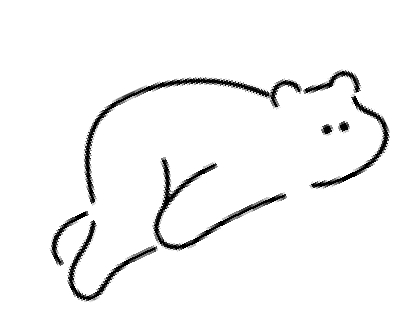
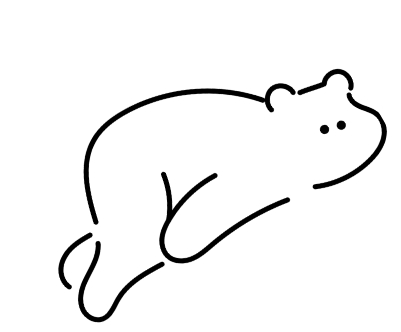
creating about page

Changed region(s): [[0.1197, 0.2026, 0.9875, 0.9839], [0.5087, 0.5209, 0.5387, 0.5498]]

diff --git a/about.html b/about.html
@@ -1,0 +1,78 @@
+<!DOCTYPE html>
+<html lang="en">
+<head>
+  <meta charset="UTF-8">
+  <meta name="viewport" content="width=device-width, initial-scale=1.0">
+  <meta http-equiv="X-UA-Compatible" content="ie=edge">
+  <link rel="stylesheet" href="css/reset.css" type="text/css">
+  <link rel="stylesheet" href="css/main.css" type="text/css">
+  <title>Beck's Brewery</title>
+</head>
+<body>
+  <h1 class="hidden">Our Story</h1>
+  <a class="skip-link screen-reader-text" href="#content">Skip to content</a>
+  <header>
+    <section class="heading">
+      <h2 class="hidden">Beck's Brewery Site Header</h2>
+        <nav class="nav" aria-label="Main Navigation">
+          <h3 class="hidden">Header Nav</h3>
+            <ul>
+              <li class="nav-item"><a class="nav-link" href="about.html">Our Story</a></li>
+              <li class="nav-item"><a class="nav-link" href="products.html">Products</a></li>
+            </ul>
+          <a class="head-logo" href="index.html">
+              <img class="logo-img" src="images/logo.png" alt="Beck's Brewery logo">
+          </a>
+          <ul>
+            <li class="nav-item"><a class="nav-link" href="ads.html">Promotion</a></li>
+            <li class="nav-item"><a class="nav-link" href="contact.html">Contact</a></li>
+          </ul>
+          <a class="cart-logo" href="#">
+              <img class="cart-img" src="#" alt="Shopping cart">
+          </a>
+      </nav>
+    </section>
+  </header>
+  <main>
+    <section class="about">
+      <div class="top-graphic">
+        <img class="logo-img" src="images/aboutPage_bear.png" alt="graphic of a lying bear">
+      </div>
+      <div class="about-item">
+        <h2>OUR STORY</h2>
+        <p>Lorem ipsum dolor sit amet, consectetur adipisicing elit, sed do eiusmod tempor incididunt ut labore et dolore magna aliqua. Ut enim ad minim veniam, quis nostrud exercitation ullamco laboris nisi ut aliquip ex ea commodo consequat. Duis aute irure dolor in reprehenderit in voluptate velit esse cillum dolore eu fugiat nulla pariatur. Excepteur sint occaecat cupidatat non proident, sunt in culpa qui officia deserunt mollit anim id est laborum.<br><br> Lorem ipsum dolor sit amet, consectetur adipisicing elit, sed do eiusmod tempor incididunt ut labore et dolore magna aliqua. Ut enim ad minim veniam, quis nostrud exercitation ullamco laboris nisi ut aliquip ex ea commodo consequat. Duis aute irure dolor in reprehenderit in voluptate velit esse cillum dolore eu fugiat nulla pariatur. Excepteur sint occaecat cupidatat non proident, sunt in culpa qui officia deserunt mollit anim id est laborum.</p>
+        <h3>
+            <a href="#">BUY NOW</a>
+        </h3>
+      </div>
+    </section>
+  </main>
+  <footer>
+    <section class="footer">
+      <h2 class="hidden">Beck's Brewery Site Footer</h2>
+        <nav class="nav" aria-label="Main Navigation">
+          <h3 class="hidden">Header Nav</h3>
+          <div class="nav-list">
+              <ul>
+                <li class="nav-item"><a class="nav-link" href="about.html">Our Story</a></li>
+                <li class="nav-item"><a class="nav-link" href="products.html">Products</a></li>
+                <li class="nav-item"><a class="nav-link" href="ads.html">Promotion</a></li>
+                <li class="nav-item"><a class="nav-link" href="contact.html">Contact</a></li>
+            </ul>
+          </div>
+          <div class="head-logo" >
+            <a href="index.html">
+                <img class="logo-img" src="images/logo.png" alt="Beck's Brewery logo">
+            </a>
+          </div>
+          <div class="foot-icon">
+              <a href="#"><i class="fab fa-facebook-square"></i></a>
+              <a href="#"><i class="fab fa-instagram"></i></a>
+              <a href="#"><i class="fab fa-twitter"></i></a>
+          </div>
+        </nav>
+      </section>
+  </footer>
+<script src="js/main.js" defer></script>
+</body>
+</html>
